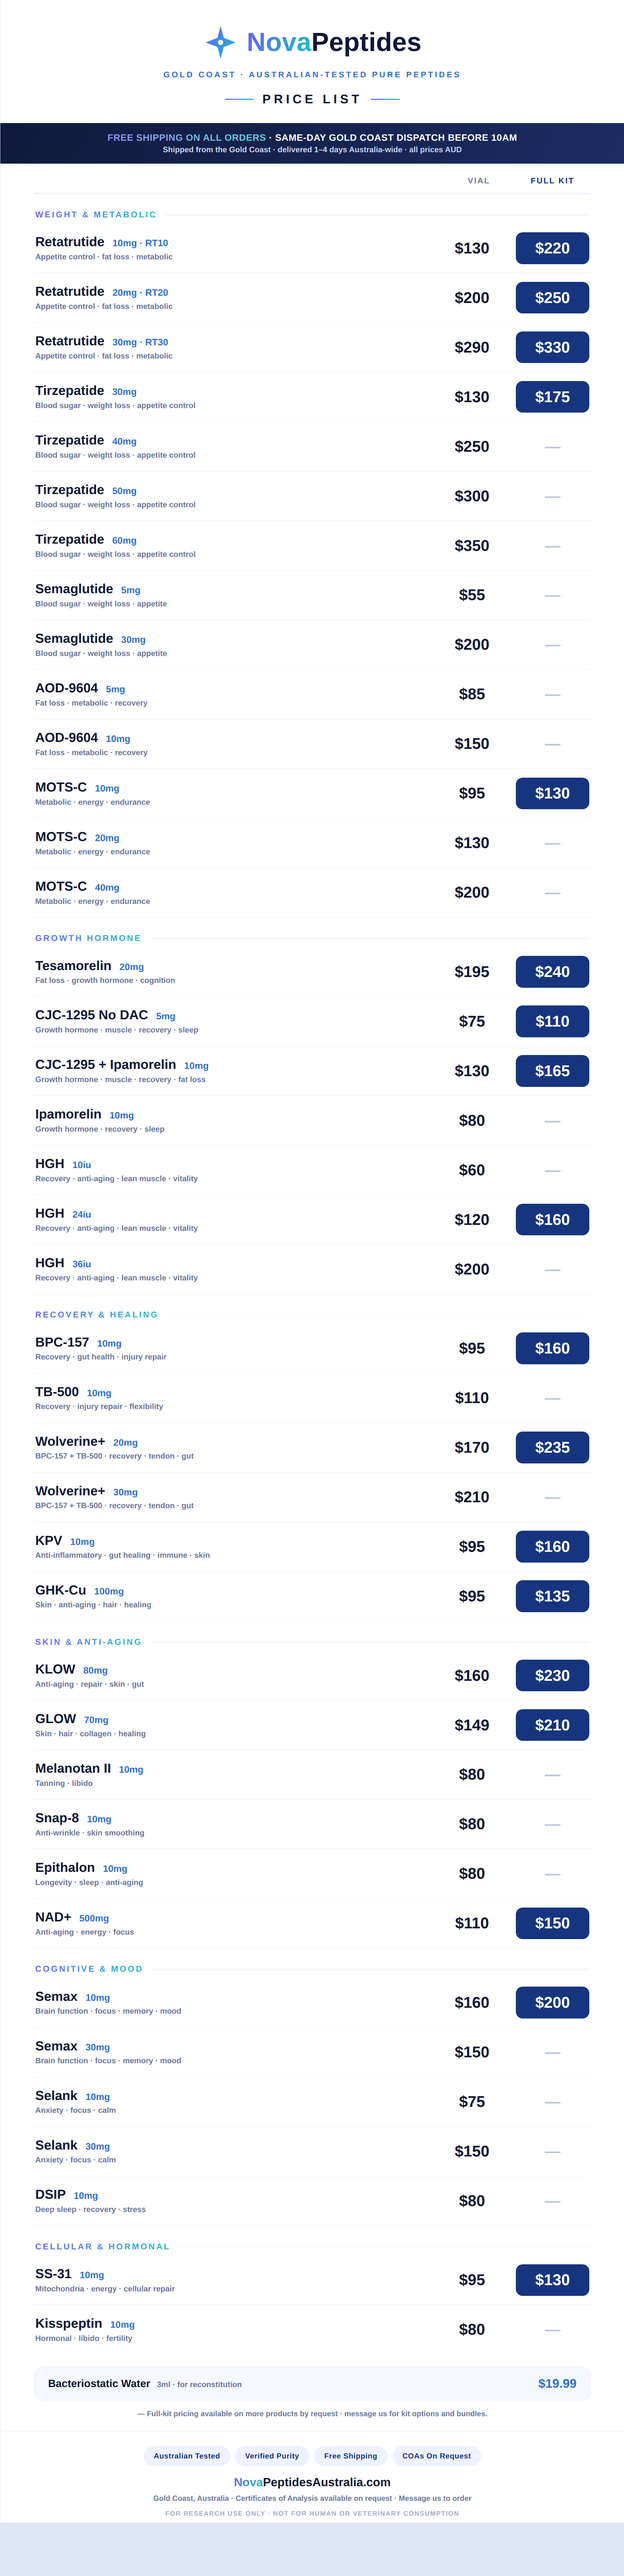
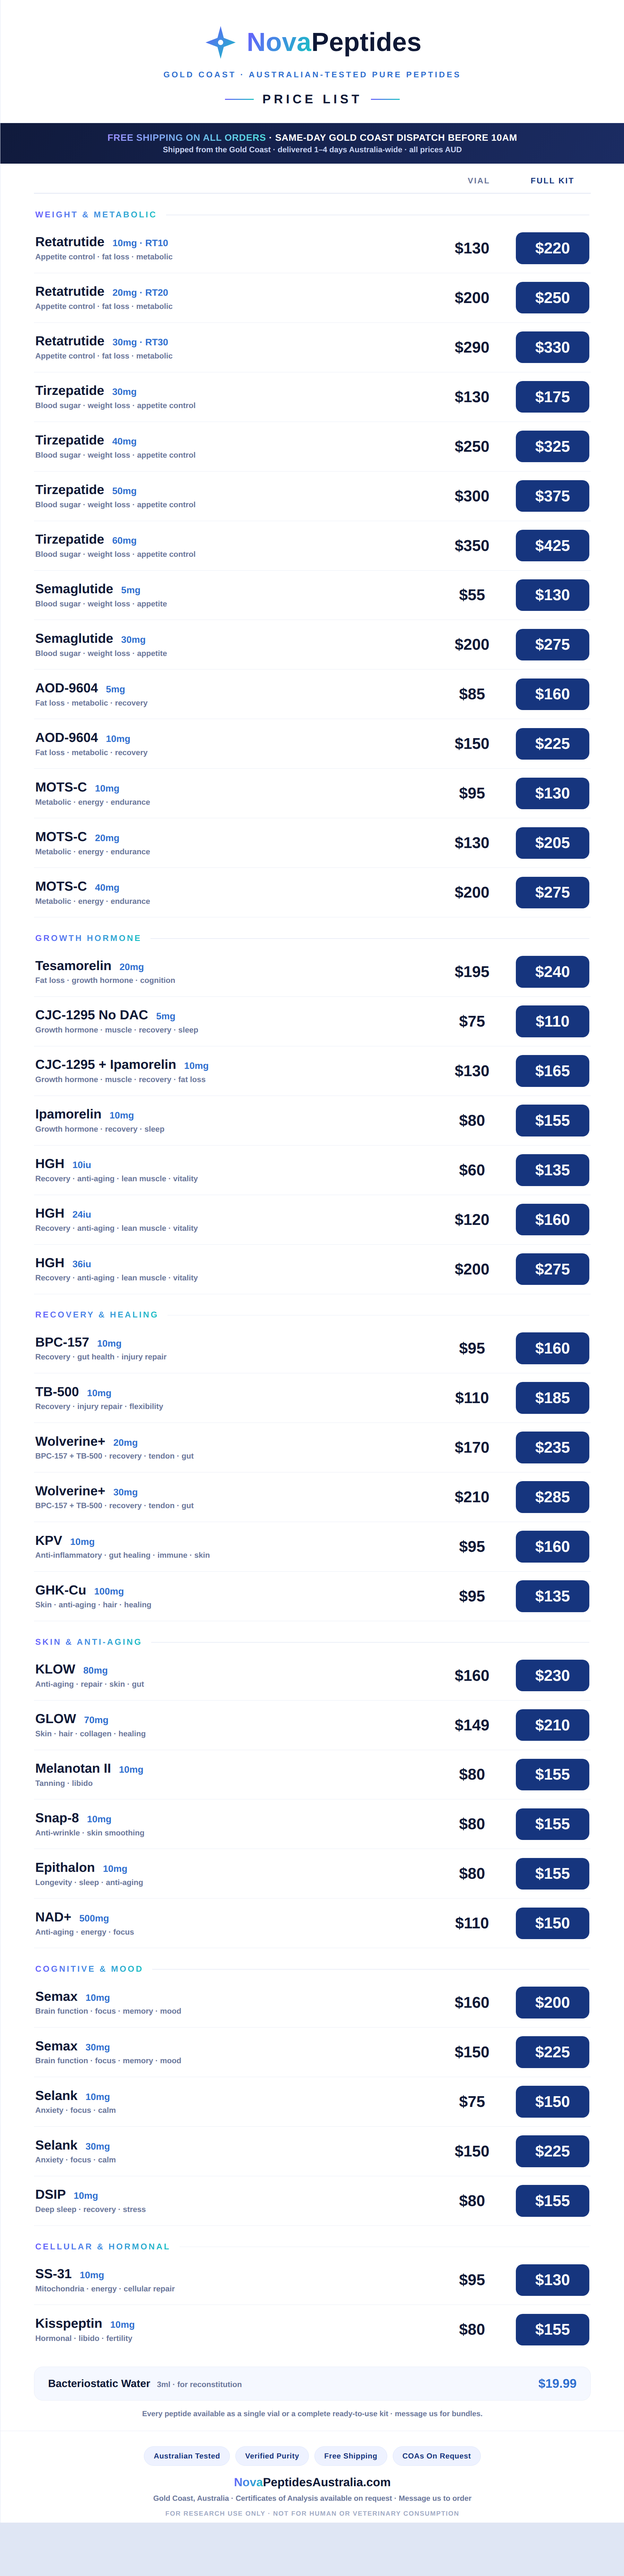
NovaPeptides price list: add full-kit price (vial + $75) to all new peptides/mg variants

diff --git a/pricing/price-list-white.html b/pricing/price-list-white.html
@@ -99,25 +99,25 @@
       <div class="row"><div class="info"><div class="nm">Tirzepatide <span class="mg">30mg</span></div><div class="ben">Blood sugar &middot; weight loss &middot; appetite control</div></div>
         <div class="prices"><div class="cell vial"><div class="v">$130</div></div><div class="cell kit"><div class="v">$175</div></div></div></div>
       <div class="row"><div class="info"><div class="nm">Tirzepatide <span class="mg">40mg</span></div><div class="ben">Blood sugar &middot; weight loss &middot; appetite control</div></div>
-        <div class="prices"><div class="cell vial"><div class="v">$250</div></div><div class="cell na"><div class="v">&mdash;</div></div></div></div>
+        <div class="prices"><div class="cell vial"><div class="v">$250</div></div><div class="cell kit"><div class="v">$325</div></div></div></div>
       <div class="row"><div class="info"><div class="nm">Tirzepatide <span class="mg">50mg</span></div><div class="ben">Blood sugar &middot; weight loss &middot; appetite control</div></div>
-        <div class="prices"><div class="cell vial"><div class="v">$300</div></div><div class="cell na"><div class="v">&mdash;</div></div></div></div>
+        <div class="prices"><div class="cell vial"><div class="v">$300</div></div><div class="cell kit"><div class="v">$375</div></div></div></div>
       <div class="row"><div class="info"><div class="nm">Tirzepatide <span class="mg">60mg</span></div><div class="ben">Blood sugar &middot; weight loss &middot; appetite control</div></div>
-        <div class="prices"><div class="cell vial"><div class="v">$350</div></div><div class="cell na"><div class="v">&mdash;</div></div></div></div>
+        <div class="prices"><div class="cell vial"><div class="v">$350</div></div><div class="cell kit"><div class="v">$425</div></div></div></div>
       <div class="row"><div class="info"><div class="nm">Semaglutide <span class="mg">5mg</span></div><div class="ben">Blood sugar &middot; weight loss &middot; appetite</div></div>
-        <div class="prices"><div class="cell vial"><div class="v">$55</div></div><div class="cell na"><div class="v">&mdash;</div></div></div></div>
+        <div class="prices"><div class="cell vial"><div class="v">$55</div></div><div class="cell kit"><div class="v">$130</div></div></div></div>
       <div class="row"><div class="info"><div class="nm">Semaglutide <span class="mg">30mg</span></div><div class="ben">Blood sugar &middot; weight loss &middot; appetite</div></div>
-        <div class="prices"><div class="cell vial"><div class="v">$200</div></div><div class="cell na"><div class="v">&mdash;</div></div></div></div>
+        <div class="prices"><div class="cell vial"><div class="v">$200</div></div><div class="cell kit"><div class="v">$275</div></div></div></div>
       <div class="row"><div class="info"><div class="nm">AOD-9604 <span class="mg">5mg</span></div><div class="ben">Fat loss &middot; metabolic &middot; recovery</div></div>
-        <div class="prices"><div class="cell vial"><div class="v">$85</div></div><div class="cell na"><div class="v">&mdash;</div></div></div></div>
+        <div class="prices"><div class="cell vial"><div class="v">$85</div></div><div class="cell kit"><div class="v">$160</div></div></div></div>
       <div class="row"><div class="info"><div class="nm">AOD-9604 <span class="mg">10mg</span></div><div class="ben">Fat loss &middot; metabolic &middot; recovery</div></div>
-        <div class="prices"><div class="cell vial"><div class="v">$150</div></div><div class="cell na"><div class="v">&mdash;</div></div></div></div>
+        <div class="prices"><div class="cell vial"><div class="v">$150</div></div><div class="cell kit"><div class="v">$225</div></div></div></div>
       <div class="row"><div class="info"><div class="nm">MOTS-C <span class="mg">10mg</span></div><div class="ben">Metabolic &middot; energy &middot; endurance</div></div>
         <div class="prices"><div class="cell vial"><div class="v">$95</div></div><div class="cell kit"><div class="v">$130</div></div></div></div>
       <div class="row"><div class="info"><div class="nm">MOTS-C <span class="mg">20mg</span></div><div class="ben">Metabolic &middot; energy &middot; endurance</div></div>
-        <div class="prices"><div class="cell vial"><div class="v">$130</div></div><div class="cell na"><div class="v">&mdash;</div></div></div></div>
+        <div class="prices"><div class="cell vial"><div class="v">$130</div></div><div class="cell kit"><div class="v">$205</div></div></div></div>
       <div class="row"><div class="info"><div class="nm">MOTS-C <span class="mg">40mg</span></div><div class="ben">Metabolic &middot; energy &middot; endurance</div></div>
-        <div class="prices"><div class="cell vial"><div class="v">$200</div></div><div class="cell na"><div class="v">&mdash;</div></div></div></div>
+        <div class="prices"><div class="cell vial"><div class="v">$200</div></div><div class="cell kit"><div class="v">$275</div></div></div></div>
 
       <div class="cat"><span class="t">Growth Hormone</span><span class="ln"></span></div>
 
@@ -128,24 +128,24 @@
       <div class="row"><div class="info"><div class="nm">CJC-1295 + Ipamorelin <span class="mg">10mg</span></div><div class="ben">Growth hormone &middot; muscle &middot; recovery &middot; fat loss</div></div>
         <div class="prices"><div class="cell vial"><div class="v">$130</div></div><div class="cell kit"><div class="v">$165</div></div></div></div>
       <div class="row"><div class="info"><div class="nm">Ipamorelin <span class="mg">10mg</span></div><div class="ben">Growth hormone &middot; recovery &middot; sleep</div></div>
-        <div class="prices"><div class="cell vial"><div class="v">$80</div></div><div class="cell na"><div class="v">&mdash;</div></div></div></div>
+        <div class="prices"><div class="cell vial"><div class="v">$80</div></div><div class="cell kit"><div class="v">$155</div></div></div></div>
       <div class="row"><div class="info"><div class="nm">HGH <span class="mg">10iu</span></div><div class="ben">Recovery &middot; anti-aging &middot; lean muscle &middot; vitality</div></div>
-        <div class="prices"><div class="cell vial"><div class="v">$60</div></div><div class="cell na"><div class="v">&mdash;</div></div></div></div>
+        <div class="prices"><div class="cell vial"><div class="v">$60</div></div><div class="cell kit"><div class="v">$135</div></div></div></div>
       <div class="row"><div class="info"><div class="nm">HGH <span class="mg">24iu</span></div><div class="ben">Recovery &middot; anti-aging &middot; lean muscle &middot; vitality</div></div>
         <div class="prices"><div class="cell vial"><div class="v">$120</div></div><div class="cell kit"><div class="v">$160</div></div></div></div>
       <div class="row"><div class="info"><div class="nm">HGH <span class="mg">36iu</span></div><div class="ben">Recovery &middot; anti-aging &middot; lean muscle &middot; vitality</div></div>
-        <div class="prices"><div class="cell vial"><div class="v">$200</div></div><div class="cell na"><div class="v">&mdash;</div></div></div></div>
+        <div class="prices"><div class="cell vial"><div class="v">$200</div></div><div class="cell kit"><div class="v">$275</div></div></div></div>
 
       <div class="cat"><span class="t">Recovery &amp; Healing</span><span class="ln"></span></div>
 
       <div class="row"><div class="info"><div class="nm">BPC-157 <span class="mg">10mg</span></div><div class="ben">Recovery &middot; gut health &middot; injury repair</div></div>
         <div class="prices"><div class="cell vial"><div class="v">$95</div></div><div class="cell kit"><div class="v">$160</div></div></div></div>
       <div class="row"><div class="info"><div class="nm">TB-500 <span class="mg">10mg</span></div><div class="ben">Recovery &middot; injury repair &middot; flexibility</div></div>
-        <div class="prices"><div class="cell vial"><div class="v">$110</div></div><div class="cell na"><div class="v">&mdash;</div></div></div></div>
+        <div class="prices"><div class="cell vial"><div class="v">$110</div></div><div class="cell kit"><div class="v">$185</div></div></div></div>
       <div class="row"><div class="info"><div class="nm">Wolverine+ <span class="mg">20mg</span></div><div class="ben">BPC-157 + TB-500 &middot; recovery &middot; tendon &middot; gut</div></div>
         <div class="prices"><div class="cell vial"><div class="v">$170</div></div><div class="cell kit"><div class="v">$235</div></div></div></div>
       <div class="row"><div class="info"><div class="nm">Wolverine+ <span class="mg">30mg</span></div><div class="ben">BPC-157 + TB-500 &middot; recovery &middot; tendon &middot; gut</div></div>
-        <div class="prices"><div class="cell vial"><div class="v">$210</div></div><div class="cell na"><div class="v">&mdash;</div></div></div></div>
+        <div class="prices"><div class="cell vial"><div class="v">$210</div></div><div class="cell kit"><div class="v">$285</div></div></div></div>
       <div class="row"><div class="info"><div class="nm">KPV <span class="mg">10mg</span></div><div class="ben">Anti-inflammatory &middot; gut healing &middot; immune &middot; skin</div></div>
         <div class="prices"><div class="cell vial"><div class="v">$95</div></div><div class="cell kit"><div class="v">$160</div></div></div></div>
       <div class="row"><div class="info"><div class="nm">GHK-Cu <span class="mg">100mg</span></div><div class="ben">Skin &middot; anti-aging &middot; hair &middot; healing</div></div>
@@ -158,11 +158,11 @@
       <div class="row"><div class="info"><div class="nm">GLOW <span class="mg">70mg</span></div><div class="ben">Skin &middot; hair &middot; collagen &middot; healing</div></div>
         <div class="prices"><div class="cell vial"><div class="v">$149</div></div><div class="cell kit"><div class="v">$210</div></div></div></div>
       <div class="row"><div class="info"><div class="nm">Melanotan II <span class="mg">10mg</span></div><div class="ben">Tanning &middot; libido</div></div>
-        <div class="prices"><div class="cell vial"><div class="v">$80</div></div><div class="cell na"><div class="v">&mdash;</div></div></div></div>
+        <div class="prices"><div class="cell vial"><div class="v">$80</div></div><div class="cell kit"><div class="v">$155</div></div></div></div>
       <div class="row"><div class="info"><div class="nm">Snap-8 <span class="mg">10mg</span></div><div class="ben">Anti-wrinkle &middot; skin smoothing</div></div>
-        <div class="prices"><div class="cell vial"><div class="v">$80</div></div><div class="cell na"><div class="v">&mdash;</div></div></div></div>
+        <div class="prices"><div class="cell vial"><div class="v">$80</div></div><div class="cell kit"><div class="v">$155</div></div></div></div>
       <div class="row"><div class="info"><div class="nm">Epithalon <span class="mg">10mg</span></div><div class="ben">Longevity &middot; sleep &middot; anti-aging</div></div>
-        <div class="prices"><div class="cell vial"><div class="v">$80</div></div><div class="cell na"><div class="v">&mdash;</div></div></div></div>
+        <div class="prices"><div class="cell vial"><div class="v">$80</div></div><div class="cell kit"><div class="v">$155</div></div></div></div>
       <div class="row"><div class="info"><div class="nm">NAD+ <span class="mg">500mg</span></div><div class="ben">Anti-aging &middot; energy &middot; focus</div></div>
         <div class="prices"><div class="cell vial"><div class="v">$110</div></div><div class="cell kit"><div class="v">$150</div></div></div></div>
 
@@ -171,24 +171,24 @@
       <div class="row"><div class="info"><div class="nm">Semax <span class="mg">10mg</span></div><div class="ben">Brain function &middot; focus &middot; memory &middot; mood</div></div>
         <div class="prices"><div class="cell vial"><div class="v">$160</div></div><div class="cell kit"><div class="v">$200</div></div></div></div>
       <div class="row"><div class="info"><div class="nm">Semax <span class="mg">30mg</span></div><div class="ben">Brain function &middot; focus &middot; memory &middot; mood</div></div>
-        <div class="prices"><div class="cell vial"><div class="v">$150</div></div><div class="cell na"><div class="v">&mdash;</div></div></div></div>
+        <div class="prices"><div class="cell vial"><div class="v">$150</div></div><div class="cell kit"><div class="v">$225</div></div></div></div>
       <div class="row"><div class="info"><div class="nm">Selank <span class="mg">10mg</span></div><div class="ben">Anxiety &middot; focus &middot; calm</div></div>
-        <div class="prices"><div class="cell vial"><div class="v">$75</div></div><div class="cell na"><div class="v">&mdash;</div></div></div></div>
+        <div class="prices"><div class="cell vial"><div class="v">$75</div></div><div class="cell kit"><div class="v">$150</div></div></div></div>
       <div class="row"><div class="info"><div class="nm">Selank <span class="mg">30mg</span></div><div class="ben">Anxiety &middot; focus &middot; calm</div></div>
-        <div class="prices"><div class="cell vial"><div class="v">$150</div></div><div class="cell na"><div class="v">&mdash;</div></div></div></div>
+        <div class="prices"><div class="cell vial"><div class="v">$150</div></div><div class="cell kit"><div class="v">$225</div></div></div></div>
       <div class="row"><div class="info"><div class="nm">DSIP <span class="mg">10mg</span></div><div class="ben">Deep sleep &middot; recovery &middot; stress</div></div>
-        <div class="prices"><div class="cell vial"><div class="v">$80</div></div><div class="cell na"><div class="v">&mdash;</div></div></div></div>
+        <div class="prices"><div class="cell vial"><div class="v">$80</div></div><div class="cell kit"><div class="v">$155</div></div></div></div>
 
       <div class="cat"><span class="t">Cellular &amp; Hormonal</span><span class="ln"></span></div>
 
       <div class="row"><div class="info"><div class="nm">SS-31 <span class="mg">10mg</span></div><div class="ben">Mitochondria &middot; energy &middot; cellular repair</div></div>
         <div class="prices"><div class="cell vial"><div class="v">$95</div></div><div class="cell kit"><div class="v">$130</div></div></div></div>
       <div class="row"><div class="info"><div class="nm">Kisspeptin <span class="mg">10mg</span></div><div class="ben">Hormonal &middot; libido &middot; fertility</div></div>
-        <div class="prices"><div class="cell vial"><div class="v">$80</div></div><div class="cell na"><div class="v">&mdash;</div></div></div></div>
+        <div class="prices"><div class="cell vial"><div class="v">$80</div></div><div class="cell kit"><div class="v">$155</div></div></div></div>
     </div>
 
     <div class="bac"><div class="n">Bacteriostatic Water <span>3ml &middot; for reconstitution</span></div><div class="v">$19.99</div></div>
-    <div class="note">&mdash; Full-kit pricing available on more products by request &middot; message us for kit options and bundles.</div>
+    <div class="note">Every peptide available as a single vial or a complete ready-to-use kit &middot; message us for bundles.</div>
 
     <footer>
       <div class="foot-badges">
